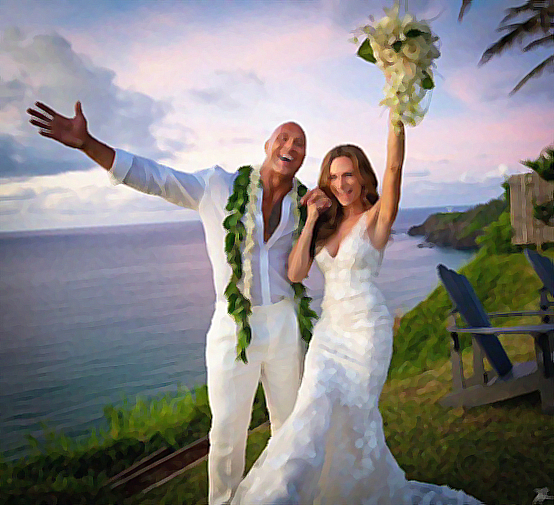
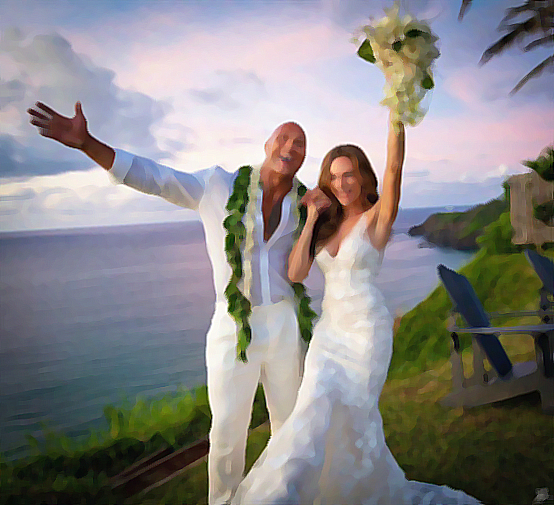
fix

diff --git a/src/ImageConversionApp.java b/src/ImageConversionApp.java
@@ -10,8 +10,8 @@ public class ImageConversionApp {
     public static final int COLORS_COUNT_IN_RGB = 3;
     public static final int MAX_COLOR_VALUE_IN_RGB = 255;
     public static final int MIN_COLOR_VALUE_IN_RGB = 0;
-    public static final int SORTED_CHANNEL_COLORS_ARRAY_MEDIAN_INDEX = 13;
-    public static final int MEDIAN_BLUR_MATRIX_SIZE = 5;
+
+    public static final int MEDIAN_BLUR_MATRIX_SIZE = 7;
 
     public static final double[][] BLUR_MATRIX = new double[][]{
             {1d / 9d, 1d / 9d, 1d / 9d},
@@ -168,6 +168,7 @@ public class ImageConversionApp {
                         count++;
                     }
                 }
+                final int SORTED_CHANNEL_COLORS_ARRAY_MEDIAN_INDEX = (int) Math.pow(MEDIAN_BLUR_MATRIX_SIZE, 2) / 2 + 1;
 
                 Arrays.sort(r);
                 colors[0] = r[SORTED_CHANNEL_COLORS_ARRAY_MEDIAN_INDEX];
